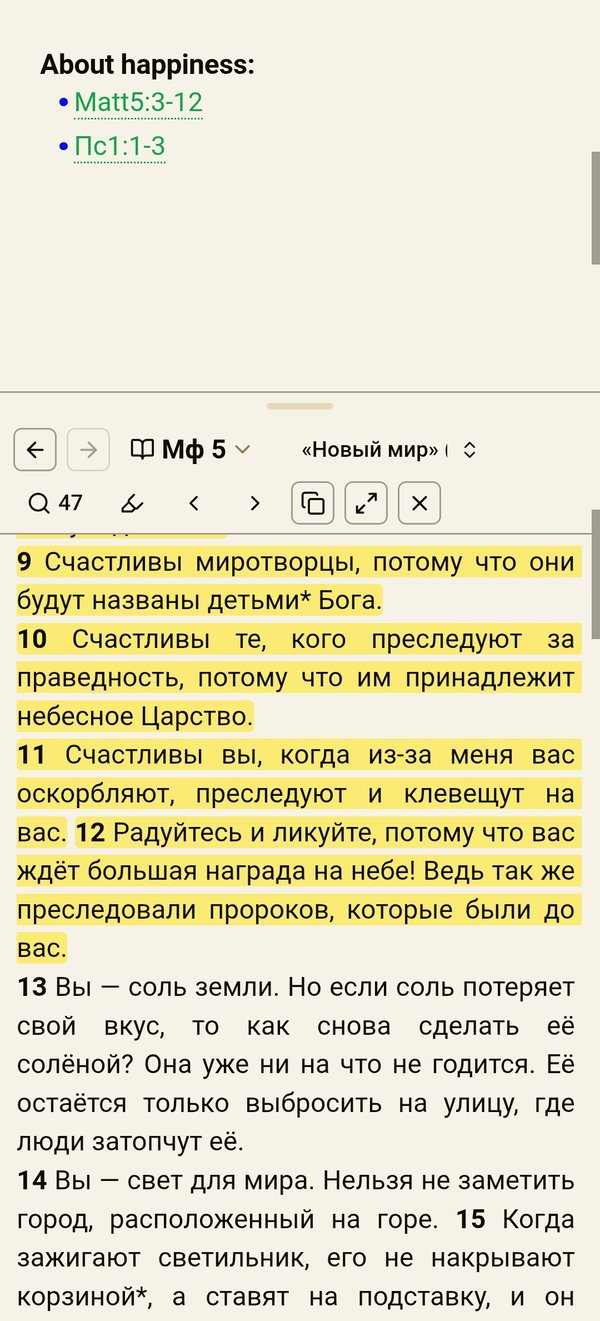
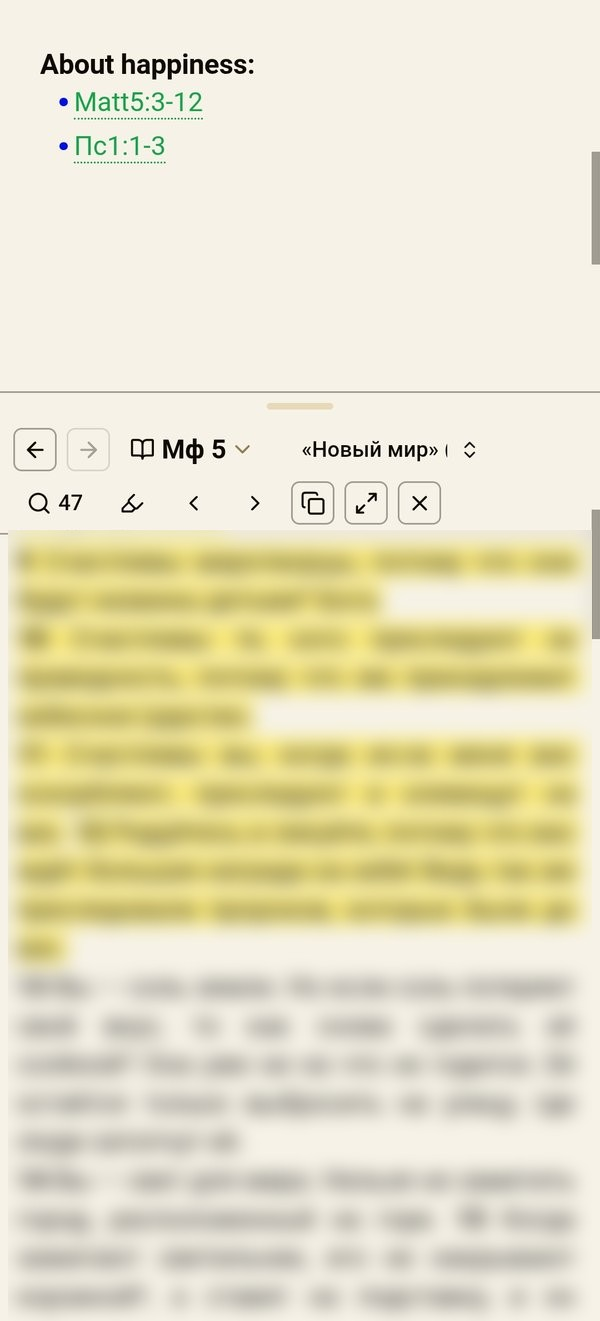
README: blur New World Translation text in screenshots, add Bible texts and copyright section
Claude-Session: https://claude.ai/code/session_01PeyDT3pzp1zBzNxpcYE5if

diff --git a/README.ru.md b/README.ru.md
@@ -109,6 +109,10 @@
 
 Стихи, которые перевод объединяет, показываются под одним номером («16–17»). В некоторых файлах dbs.org потеряны списки, например родословия (1 Пар 1–2, Мф 1:2–17, Рим 16:3–16); эти стихи показываются как отсутствующие. Плагин только читает файл и ничего никуда не передаёт; перед тем как делиться файлом, проверьте лицензию перевода.
 
+## Тексты Библии и авторские права
+
+Плагин не содержит текста Библии и ничего не скачивает: вы импортируете файл, который скачали сами, и текст хранится в папке плагина в вашем хранилище. Плагин не связан с jw.org, eBible.org и Digital Bible Society. У каждого перевода остаются его авторские права и условия сайта, откуда вы его взяли; например, jw.org разрешает использовать свои публикации в личных некоммерческих целях. Используйте импортированные тексты для личного изучения и проверяйте лицензию, прежде чем ими делиться. Поэтому на скриншотах выше текст «Нового мира» замылен.
+
 ## Конфиденциальность
 
 Плагин не делает сетевых запросов. Список Markdown-файлов он читает только для локального индекса использований, а в буфер обмена пишет только по кнопке копирования.

diff --git a/README.md b/README.md
@@ -109,6 +109,10 @@ The verse numbering scheme is detected from the text. If detection is not certai
 
 Verses that the translation joins together are shown under one number ("16–17"). Some dbs.org files have lost lists, such as genealogies (1 Chronicles 1–2, Matthew 1:2–17, Romans 16:3–16); those verses are shown as missing. The plugin only reads the file for you and shares nothing; check the license of the translation before sharing the file.
 
+## Bible texts and copyright
+
+The plugin contains no Bible text and downloads nothing: you import a file you downloaded yourself, and the text stays in the plugin folder of your vault. The plugin is not affiliated with jw.org, eBible.org or the Digital Bible Society. Each translation keeps its copyright and the terms of the site you got it from; for example, jw.org allows its publications for personal, non-commercial use. Keep imported texts for your own study and check the license before sharing them. In the screenshots above, the text of the New World Translation is blurred for this reason.
+
 ## Privacy
 
 The plugin makes no network requests. It reads the list of Markdown files only to build the local usage index, and it writes to the clipboard only when you press copy.

diff --git a/CHANGELOG.md b/CHANGELOG.md
@@ -5,6 +5,7 @@
 - A reference no longer continues on the next line: in "Judg 4:3,14;" followed by "5:14" on a new line, 5:14 used to be highlighted as a link that did not open. Now only the first line is a reference, the same in the editor, the preview, reading mode and the usage index.
 - Questions and ideas now have a home in [GitHub Discussions](https://github.com/yuriy-bak/obsidian-bible-reference-preview/discussions), linked from the README and the new issue page.
 - README: phone screenshots of the Bible reader under the note and the Bible translations page.
+- README: a "Bible texts and copyright" section (the plugin has no Bible text, is not affiliated with jw.org, eBible.org or the Digital Bible Society; imported texts are for personal study), and the New World Translation text in the screenshots and the GIF is blurred.
 
 ## 0.3.4 - Compact translation list, safer index, clearer errors
 
